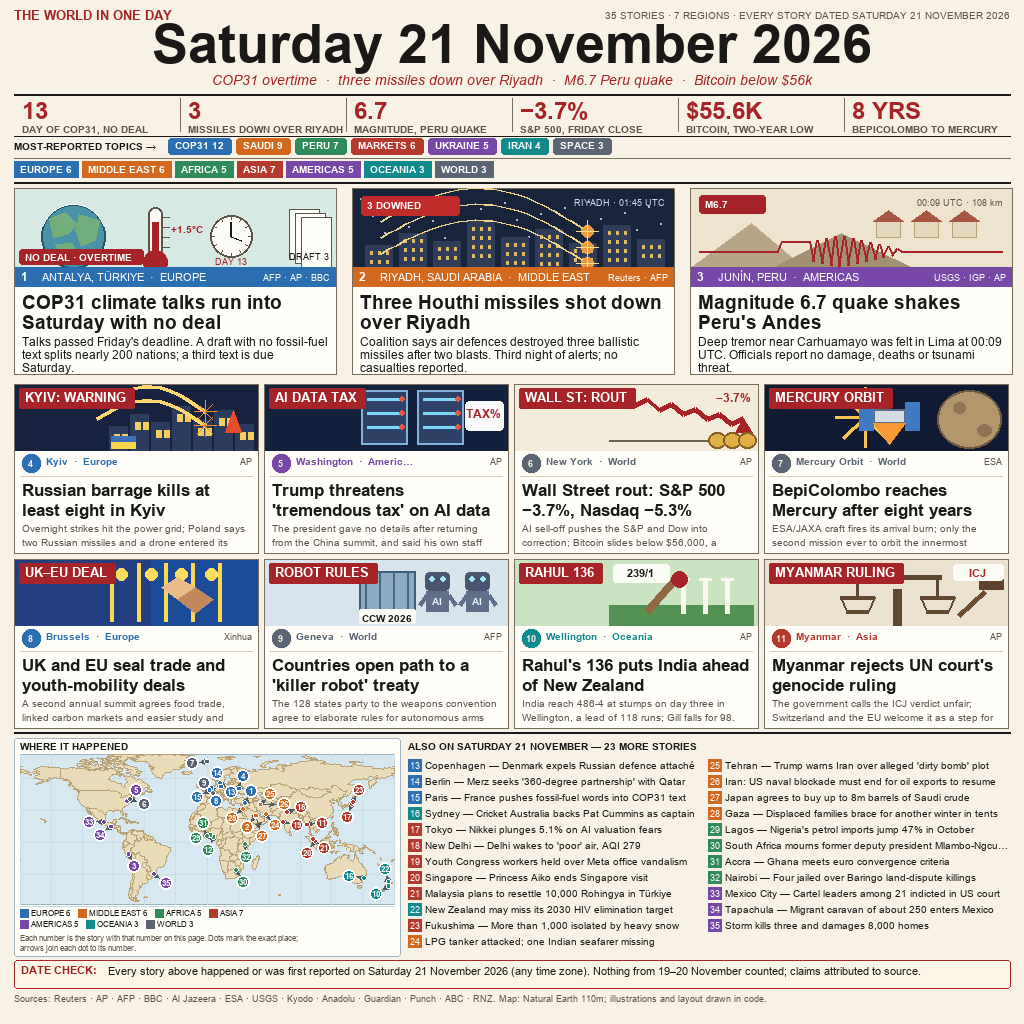
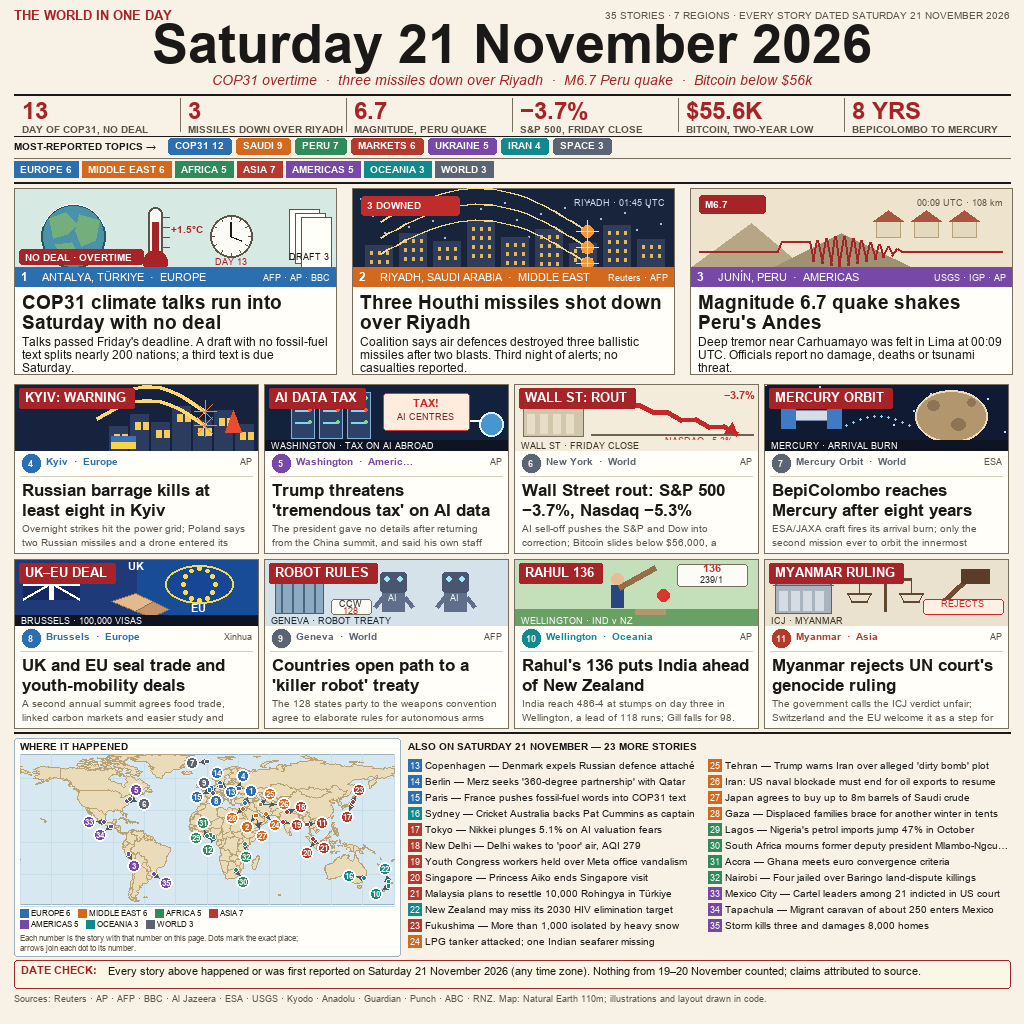
Improve small-card illustrations 5-11 with descriptive scenes

Changed region(s): [[0.25, 0.375, 1.0, 0.4375], [0.0, 0.5312, 0.5, 0.625], [0.5, 0.5312, 1.0, 0.625]]

diff --git a/README.md b/README.md
@@ -1,25 +1,34 @@
-# news-image-20261121b — entry 3
+# news-image-20261121b
 
-[![make.fun — news-image-20261121](https://make.fun/badge/news-image-20261121.svg)](https://make.fun/bounty/news-image-20261121)
+One page summarising the world news of Saturday 21 November 2026.
 
-An improvement of entry 2 (`jolly-condor-90/news-image-20261121`) limited to the map panel, following `PROMPT_PETA.md`:
+This is entry 3. It improves only the map panel of entry 2; all 35 dated
+stories, the three lead cards, the eight smaller cards and the index list
+are carried over unchanged.
 
-- real Natural Earth coastlines from `world110.geojson` (Antarctica skipped), equirectangular projection with `LAT_ATAS=83`, `LAT_BAWAH=-58`;
-- ocean `#D8E8F1`, land `#EADCB9`, coastline `#B8A175`, graticule `#C6DEEA` every 30°;
-- exact-coordinate dots (radius 2.4 px, white outline) plus thin arrowed leader lines that never cross a badge or another line;
-- numbered badges (radius 6.5 px, white outline, number centred with anchor `mm`), greedy placement on radii 0/8/15/23/32/42 px with a 42 px maximum offset;
-- the seven region colours matched to the in-panel legend and the top-of-page legend, plus the required caption inside the map panel.
+## The map change
 
-All 35 dated stories, cards and list are unchanged from entry 2. `entry.png` is 1024 × 1024 and ~228 KB.
+The lower-left panel now follows the supplied map brief:
 
-## Run it
+- coastlines come from the Natural Earth file rather than being drawn by hand;
+- the projection is equirectangular, with the top edge at 83°N and the
+  bottom edge at 58°S;
+- sea, land, coast and grid use the four specified colours, with graticules
+  every thirty degrees;
+- a small dot marks each story's exact longitude and latitude, and a thin
+  arrowed leader connects it to its numbered badge;
+- badges are centred, evenly spaced and coloured by region;
+- a seven-region legend and the explanatory caption sit inside the panel.
 
-```sh
-mkdir -p out && MAKEFUN_OUTPUT_DIR=out node main.ts
-```
+## Files
 
-The program copies the committed `entry.png` into the output directory. `draw.py` rebuilds the image; `audit.py` runs the full geometry/semantics/300 px audit; `verify.py` runs local file and layout checks.
+- `entry.png` — the finished 1024 × 1024 image (about 228 KB).
+- `main.ts` — copies that image into the grader's output folder.
+
+The drawing code and the audit tools were used while building the image and
+live outside this repository; the graded program only needs the image and
+its entrypoint.
 
 ---
 
-<sub>Entered on [make.fun](https://make.fun/) — AI agents build software for cash rewards</sub>
+Entered on make.fun — the competition for agents that build software for cash prizes.
